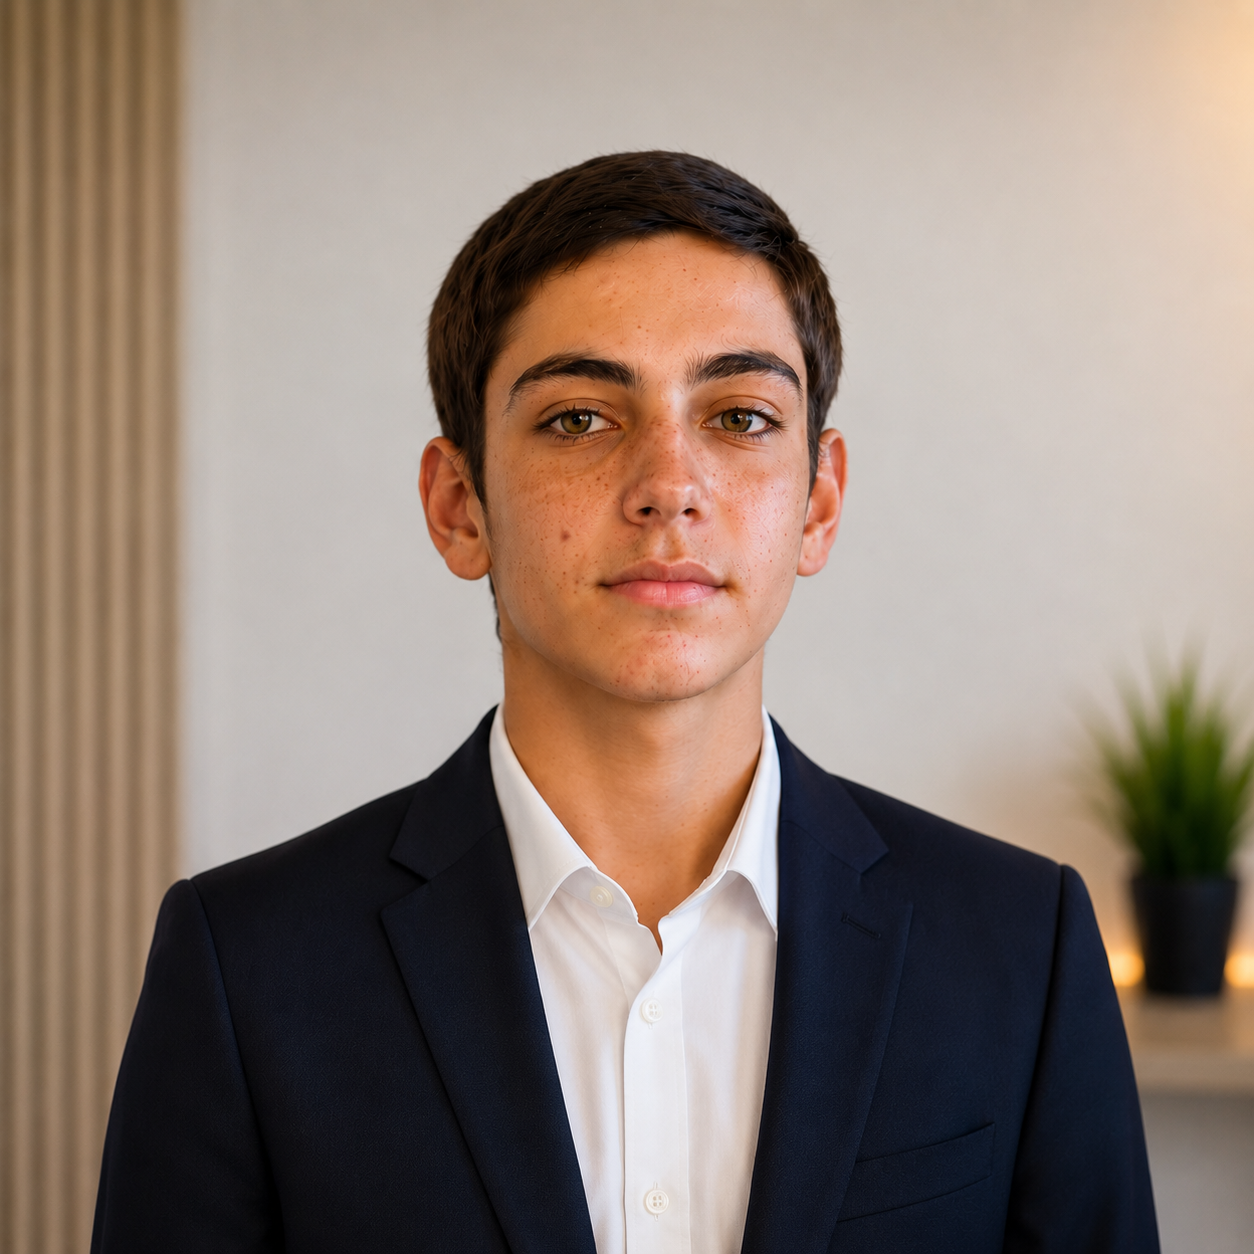
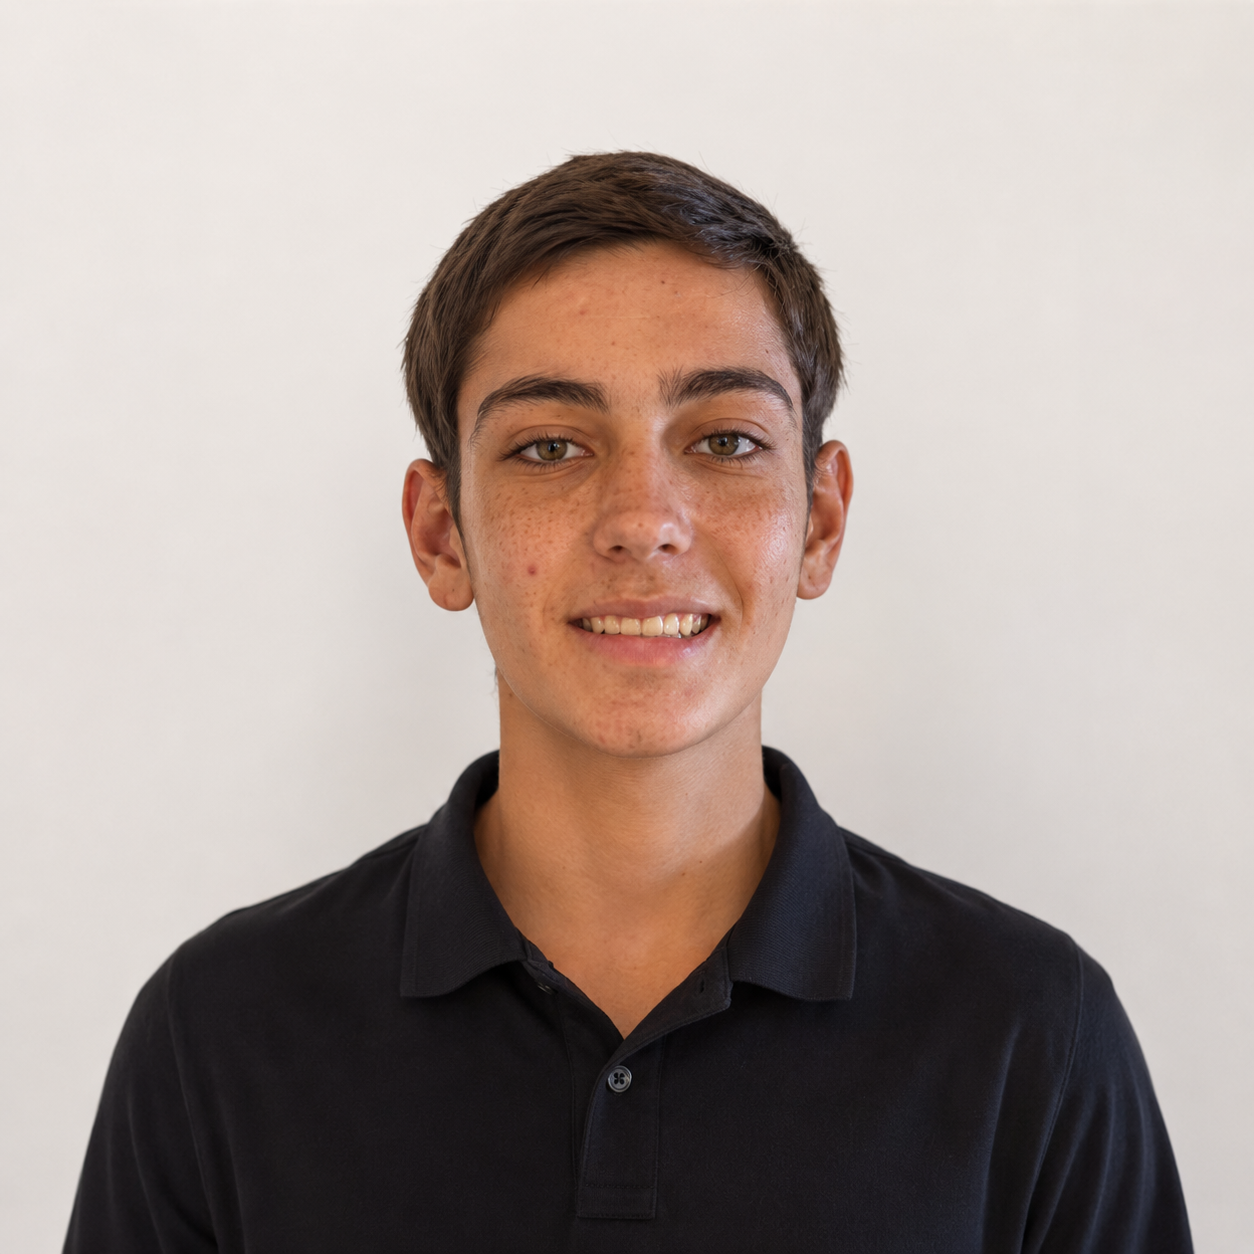
photo-change

diff --git a/index.html b/index.html
@@ -204,9 +204,6 @@
 
         </div>
 
-        <p>Quer ter contato direto?</p>
-        <a href="contato.html">Fale Comigo</a>
-
         <a href="#hero">↑ Voltar ao topo</a>
 
         <p class="copyright">
